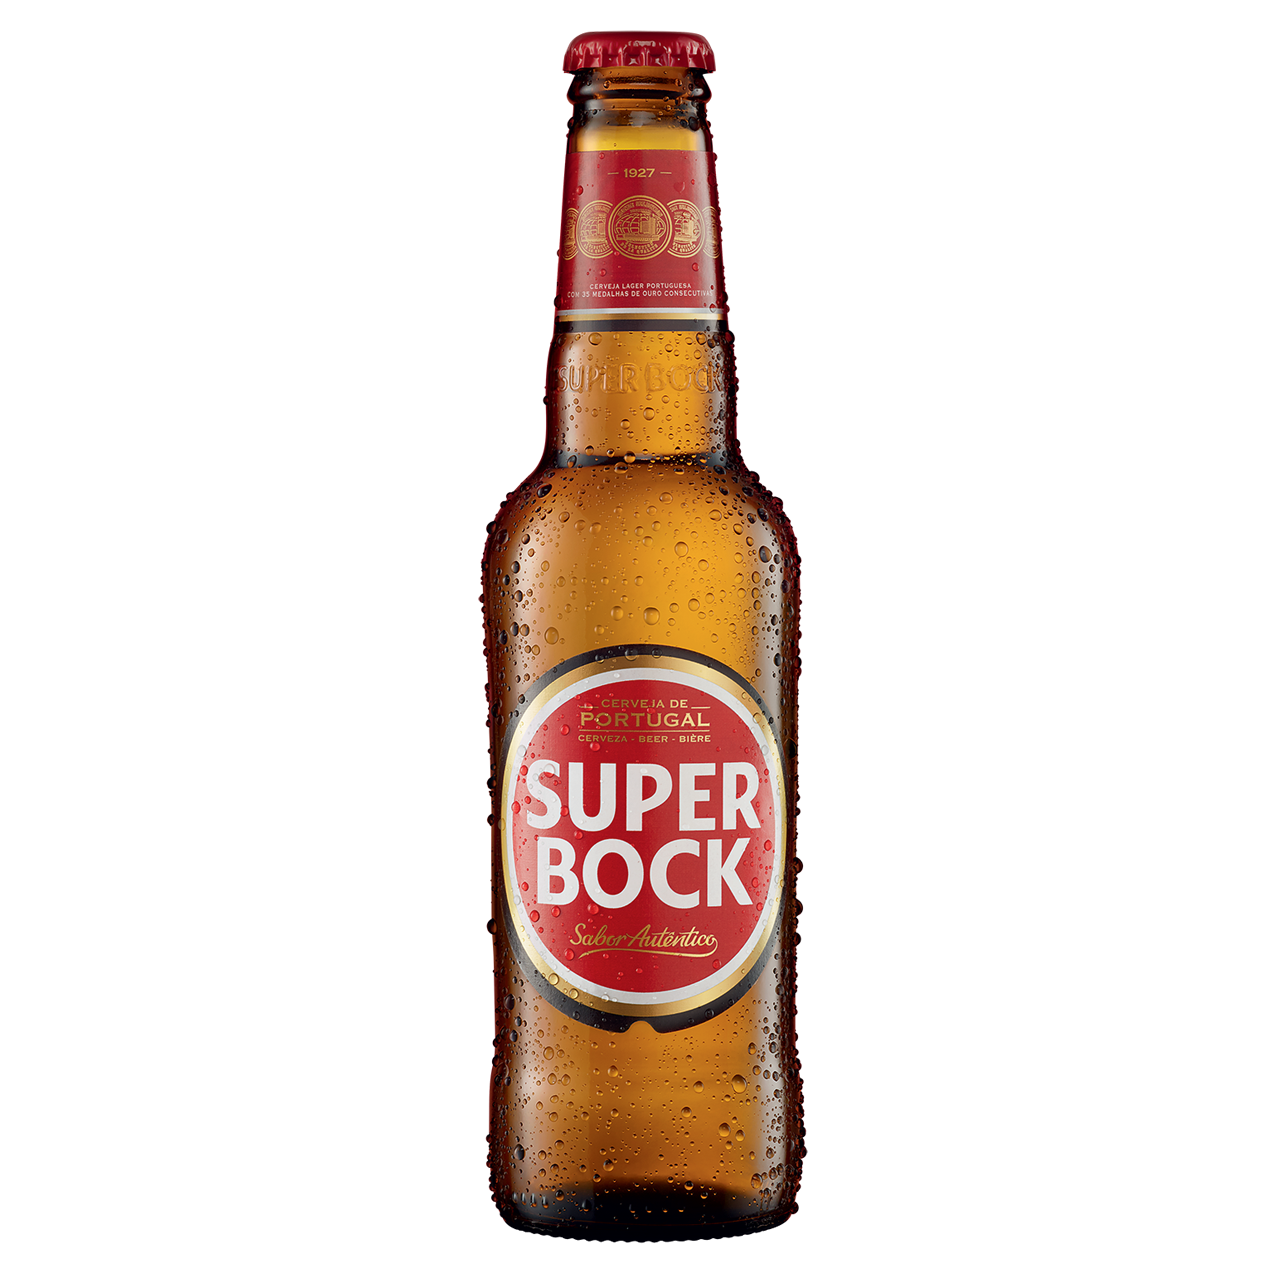
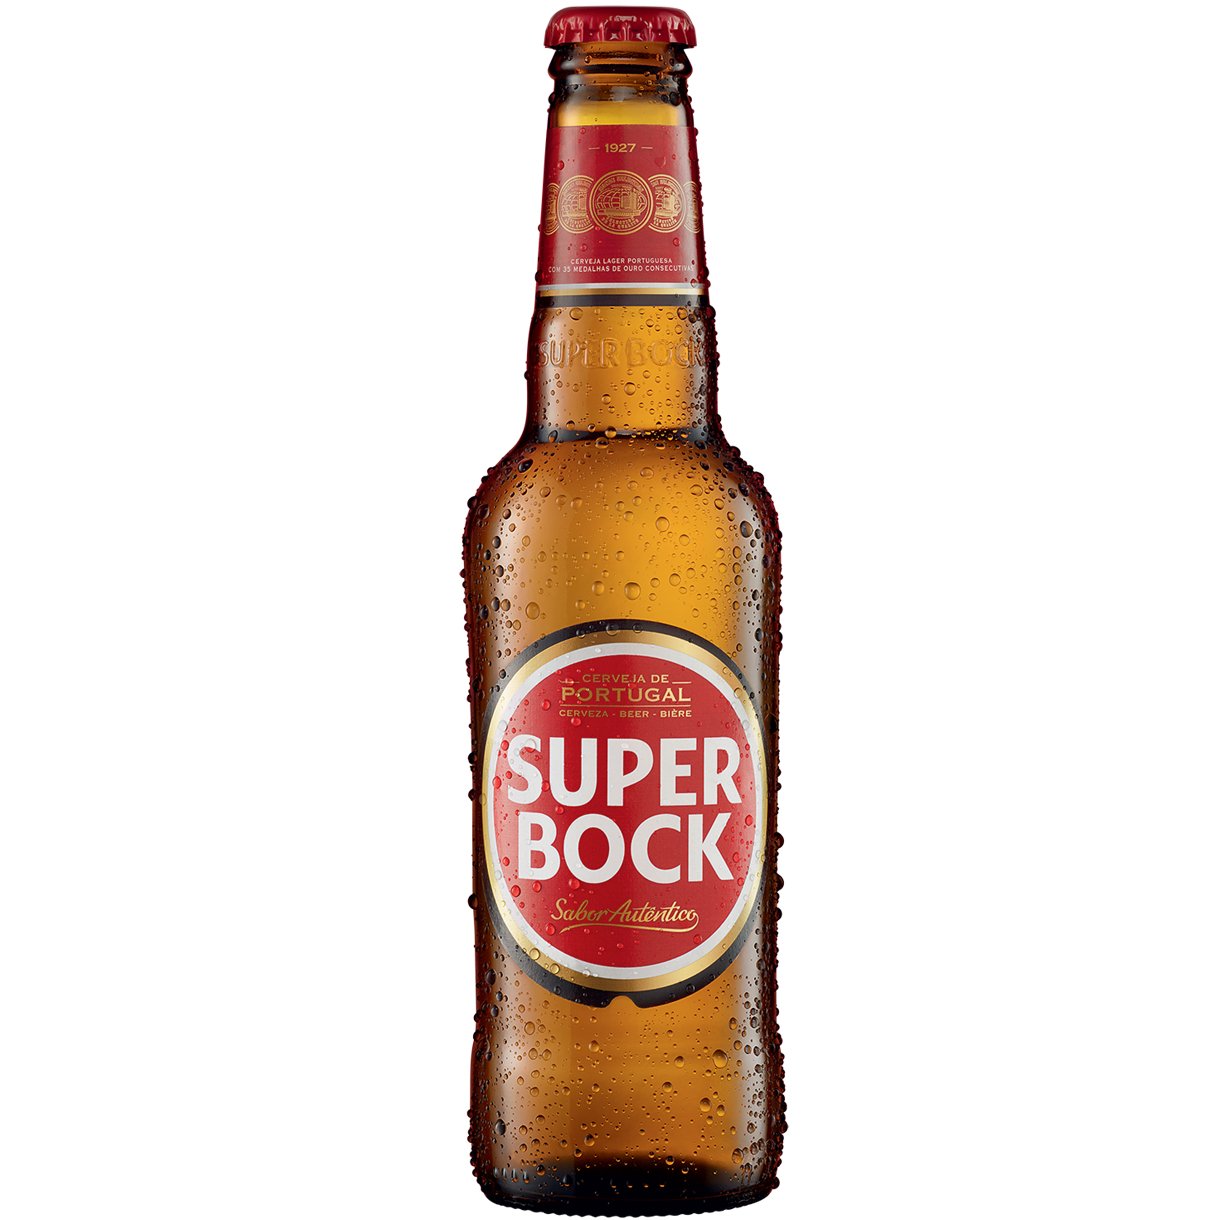
imagens

Changed region(s): [[0.3738, 0.0, 0.6541, 1.0]]

diff --git a/theme.css b/theme.css
@@ -2219,3 +2219,8 @@ textarea.form-control {
 .product-card:hover .product-name {
   color: var(--gold-accent);
 }
+
+/* Custom image scaling for Super Bock Original 33cl to bypass transparent margin constraints */
+img[src*="Super_Bock_Original%2033cl"], img[src*="Super_Bock_Original 33cl"] {
+  transform: scale(1.35) !important;
+}
